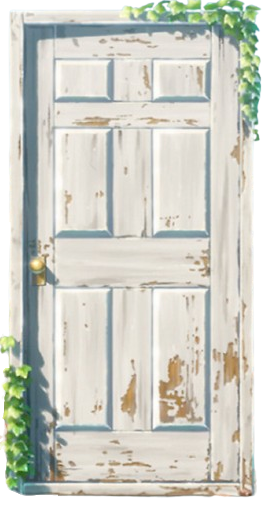
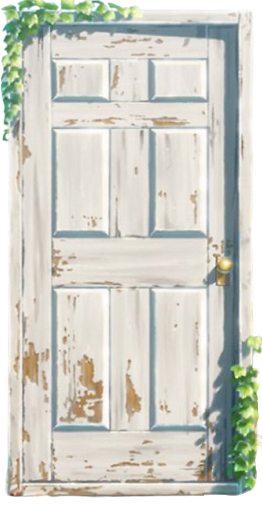
deploy: e91de1b735332e24036755671458a05856bf33ab

diff --git a/flutter_service_worker.js b/flutter_service_worker.js
@@ -28,7 +28,7 @@ const RESOURCES = {"flutter.js": "f393d3c16b631f36852323de8e583132",
 "assets/assets/fonts/static/BuntaOneKana-DB.ttf": "ea58a40c8c0e4a4e408ca9490729f519",
 "assets/assets/fonts/Outfit-VariableFont_wght.ttf": "1b443ee3b6993db873f1faedffe56133",
 "assets/assets/images/fuku_pin.png": "87aa176c711704104359f65559fb7452",
-"assets/assets/images/door.png": "92bd849ecda3a3e7cef383dc85db81f5",
+"assets/assets/images/door.png": "f957f09d926fb4bae05c90660a7b2ee0",
 "assets/assets/images/background.webp": "fbdde4e6ae8297e30d4b1dbbe8a507c3",
 "assets/assets/images/fukuback.jpeg": "daf90396003c30b8390952ae76d2b262",
 "assets/assets/images/fuku_hub.png": "e376677067482ac781cf54e0066c8120",
@@ -54,7 +54,7 @@ const RESOURCES = {"flutter.js": "f393d3c16b631f36852323de8e583132",
 "icons/Icon-512.png": "96e752610906ba2a93c65f8abe1645f1",
 "icons/Icon-maskable-512.png": "301a7604d45b3e739efc881eb04896ea",
 "version.json": "a6e2155b832cb3584d4f2298014392ca",
-"flutter_bootstrap.js": "0e87968b589c4dc9000448f613284827"};
+"flutter_bootstrap.js": "d49ea8143343279210dba319bc9f1215"};
 // The application shell files that are downloaded before a service worker can
 // start.
 const CORE = ["main.dart.js",

diff --git a/flutter_bootstrap.js b/flutter_bootstrap.js
@@ -11,6 +11,6 @@ _flutter.buildConfig = {"engineRevision":"c9b9d5780da342eb3f0f5e439a7db06f7d1125
 
 _flutter.loader.load({
   serviceWorkerSettings: {
-    serviceWorkerVersion: "1766885329"
+    serviceWorkerVersion: "2224848451"
   }
 });
